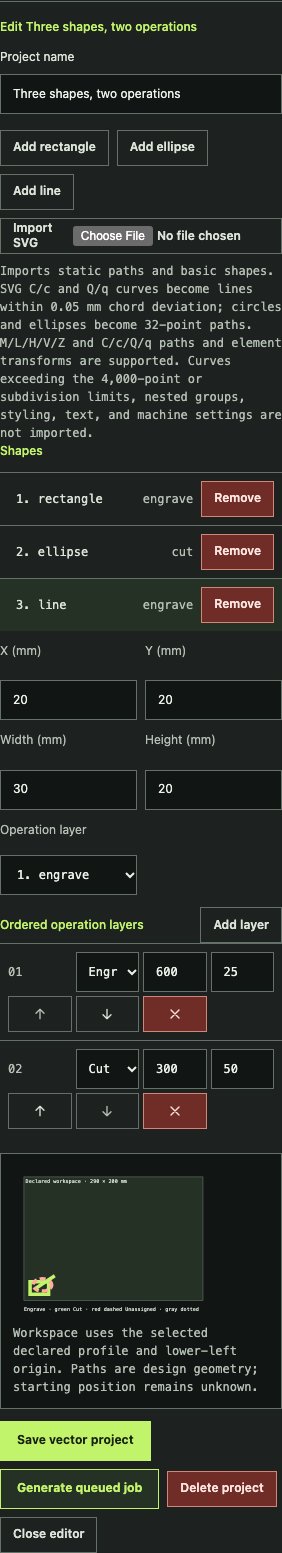
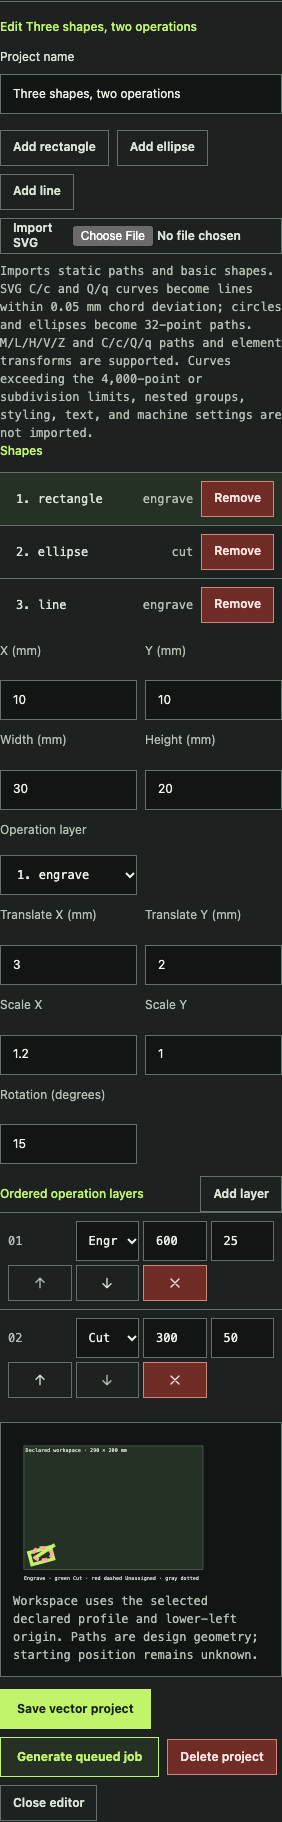
docs: illustrate editable vector transforms

diff --git a/docs/research/designer-architecture.md b/docs/research/designer-architecture.md
@@ -1,6 +1,6 @@
 # Browser laser designer: architecture review
 
-**Status:** version 1 rectangle engraving and version 2 multi-path vector projects are implemented; this document also retains the source review and remaining architecture for [issue #4](https://github.com/constructorfleet/emberdeck/issues/4). The full issue remains open. Issue #4 asks for creation/import, editing, operations, profile-aware preview, editable projects, generated jobs, explicit dispatch, public-seam geometry tests, browser workflow tests, and illustrated operator instructions. It specifically requires separate milestones for vector cutting, vector engraving, and raster engraving.
+**Status:** version 1 rectangle engraving and version 2 multi-path vector projects with saved per-object translation, X/Y scale, and rotation are implemented; this document also retains the source review and remaining architecture for [issue #4](https://github.com/constructorfleet/emberdeck/issues/4). The full issue remains open. Issue #4 asks for creation/import, editing, operations, profile-aware preview, editable projects, generated jobs, explicit dispatch, public-seam geometry tests, browser workflow tests, and illustrated operator instructions. It specifically requires separate milestones for vector cutting, vector engraving, and raster engraving.
 
 ## Implemented rectangle milestone
 
@@ -14,8 +14,8 @@ See the [API contract](../api.md) and [illustrated guide](../operator-guide.md).
 
 This version 1 milestone has one rectangle outline and one vector-engraving
 operation. The separate version 2 milestone below adds multiple objects and a
-bounded SVG importer. Text, rotation/alignment, and raster engraving remain
-unavailable. The static preview is not execution monitoring for
+bounded SVG importer. Text, alignment, multi-selection, and raster engraving
+remain unavailable. The static preview is not execution monitoring for
 [issue #7](https://github.com/constructorfleet/emberdeck/issues/7).
 
 ## Implemented multi-path vector milestone
@@ -38,8 +38,10 @@ SVG `C/c` cubic and `Q/q` quadratic curves are flattened to editable
 millimetre polylines with a 0.05 mm chord tolerance after element transforms and
 viewport scaling, capped at 4,000 points and 16 subdivision levels. The importer
 rejects nested groups, `S/s` and `T/t` smooth commands, `A/a` arcs, styles, text,
-and active or external content. The v2 model does not provide arbitrary path-node
-editing, rotation, alignment, multi-selection, text, undo/redo, kerf
+and active or external content. V2 stores per-object translation, nonuniform
+scale, and rotation around the source bounds center; profile validation,
+preview, and generation apply the same rounded transform. The v2 model does not
+provide arbitrary path-node editing, alignment, multi-selection, text, undo/redo, kerf
 compensation, tabs, passes, or raster engraving. Ellipses are polygonal and the
 editor does not claim live execution progress. Version 1 projects and
 `rectangle-v1` jobs remain supported with their original data and G-code.

diff --git a/docs/roadmap.md b/docs/roadmap.md
@@ -76,10 +76,12 @@ designer's remaining capabilities are delivered.
   Implemented end-to-end milestones support the original saved rectangle and a
   schema-v2 multi-path editor with rectangle/ellipse/line primitives, ordered
   vector engrave/cut layers, profile preview, immutable generated jobs, and
-  explicit dispatch. [Source review and remaining architecture](research/designer-architecture.md)
-  track the remaining rotation/alignment, multi-selection/transforms, nested
-  SVG groups, smooth/arc commands, text import, arbitrary path editing, and raster
-  evaluation. A bounded static SVG importer now converts basic shapes and
+  explicit dispatch. Single-object translation, X/Y scaling, and rotation are
+  saved, previewed, checked against the work area, and applied to generated
+  toolpaths. [Source review and remaining architecture](research/designer-architecture.md)
+  track the remaining alignment, multi-selection, nested SVG groups, smooth/arc
+  commands, text import, arbitrary path editing, and raster evaluation. A bounded
+  static SVG importer now converts basic shapes and
   line/Bezier paths into editable, unassigned geometry. The full issue stays open.
 - [ ] [#7: Live completed/remaining toolpath progress](https://github.com/constructorfleet/emberdeck/issues/7).
   Implement camera-independent execution monitoring for supported uploaded G-code
